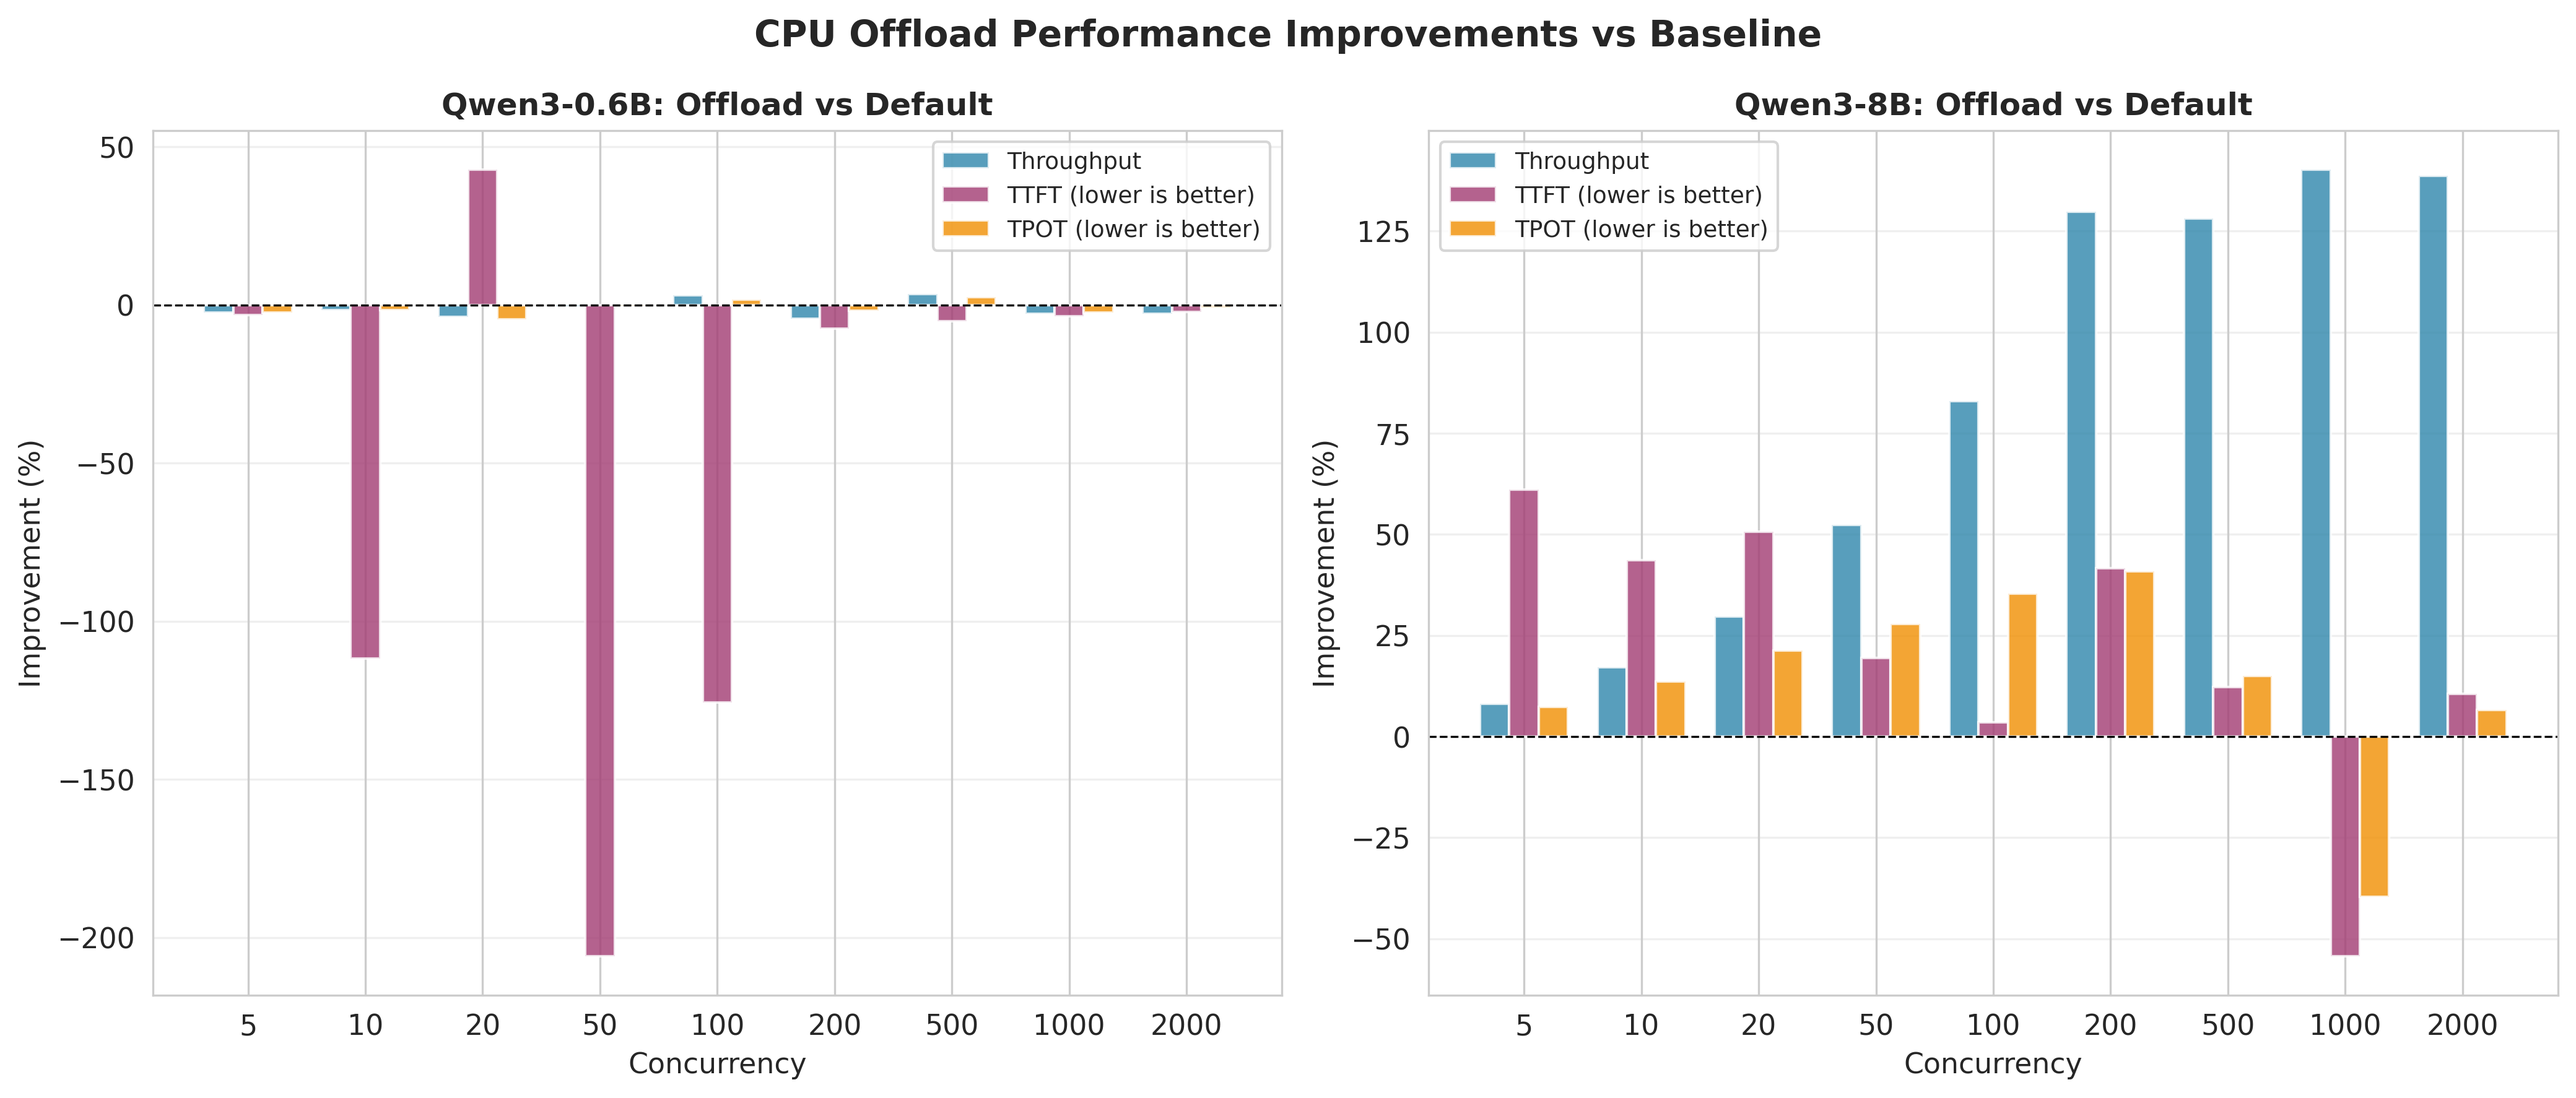
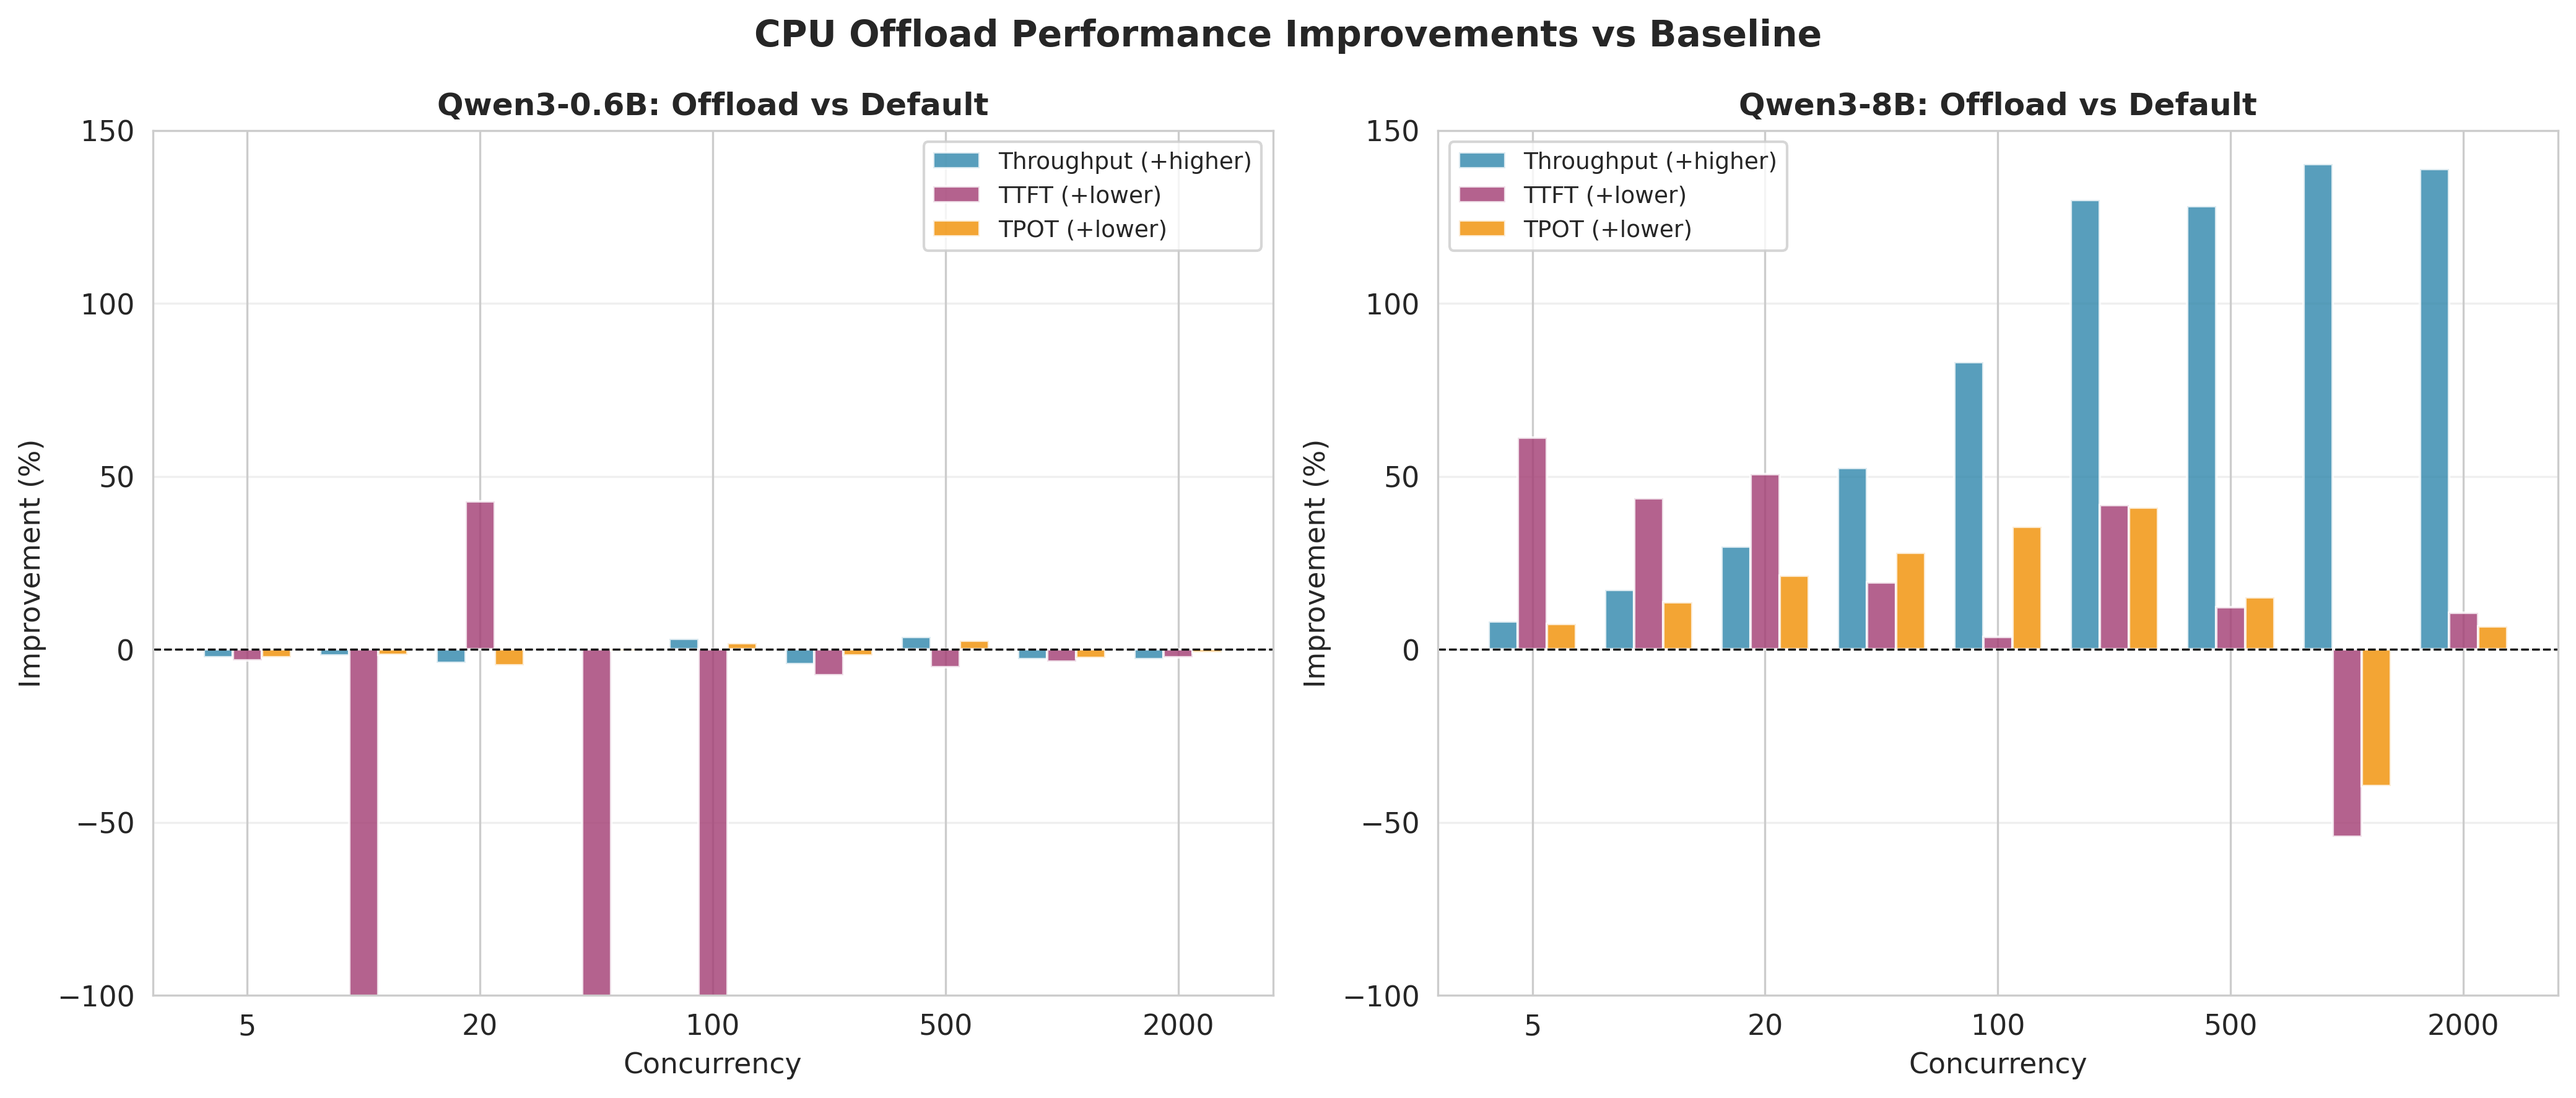
Improve performance improvements graph readability
Reduce x-axis tick density by showing every other concurrency level.
Set y-axis limits to -100% to 150% to prevent extreme negative values
from making the graph illegible. Clarify legend labels to show that
positive values mean improvement for all metrics.

diff --git a/vllm-kvcache-cpu-offload-eval/create_visualizations.py b/vllm-kvcache-cpu-offload-eval/create_visualizations.py
@@ -140,26 +140,32 @@ for idx, model in enumerate(models):
     # Calculate improvements (positive = better)
     merged['throughput_improvement'] = ((merged['tokens_per_second_offload'] - merged['tokens_per_second_baseline']) /
                                         merged['tokens_per_second_baseline'] * 100)
+    # For latency metrics, reduction is improvement, so flip the sign
     merged['ttft_improvement'] = -((merged['ttft_ms_offload'] - merged['ttft_ms_baseline']) /
-                                   merged['ttft_ms_baseline'] * 100)  # negative = improvement
+                                   merged['ttft_ms_baseline'] * 100)
     merged['tpot_improvement'] = -((merged['tpot_ms_offload'] - merged['tpot_ms_baseline']) /
-                                   merged['tpot_ms_baseline'] * 100)  # negative = improvement
+                                   merged['tpot_ms_baseline'] * 100)
 
     x = np.arange(len(merged))
     width = 0.25
 
-    ax.bar(x - width, merged['throughput_improvement'], width, label='Throughput', color='#2E86AB', alpha=0.8)
-    ax.bar(x, merged['ttft_improvement'], width, label='TTFT (lower is better)', color='#A23B72', alpha=0.8)
-    ax.bar(x + width, merged['tpot_improvement'], width, label='TPOT (lower is better)', color='#F18F01', alpha=0.8)
+    ax.bar(x - width, merged['throughput_improvement'], width, label='Throughput (+higher)', color='#2E86AB', alpha=0.8)
+    ax.bar(x, merged['ttft_improvement'], width, label='TTFT (+lower)', color='#A23B72', alpha=0.8)
+    ax.bar(x + width, merged['tpot_improvement'], width, label='TPOT (+lower)', color='#F18F01', alpha=0.8)
 
     ax.axhline(y=0, color='black', linestyle='--', linewidth=0.8)
     ax.set_xlabel('Concurrency', fontsize=11)
     ax.set_ylabel('Improvement (%)', fontsize=11)
     ax.set_title(f'{model}: Offload vs Default', fontsize=12, fontweight='bold')
-    ax.set_xticks(x)
-    ax.set_xticklabels([str(int(c)) if pd.notna(c) else '' for c in merged['concurrency']])
-    ax.legend(fontsize=9)
+    # Show fewer x-tick labels for readability
+    tick_positions = [i for i in range(len(merged)) if i % 2 == 0 or i == len(merged)-1]
+    ax.set_xticks([x[i] for i in tick_positions])
+    ax.set_xticklabels([str(int(merged['concurrency'].iloc[i])) if pd.notna(merged['concurrency'].iloc[i]) else ''
+                        for i in tick_positions], rotation=0)
+    ax.legend(fontsize=9, loc='best')
     ax.grid(True, alpha=0.3, axis='y')
+    # Set reasonable y-axis limits for readability
+    ax.set_ylim(-100, 150)
 
 plt.tight_layout()
 plt.savefig('performance_improvements.png', dpi=300, bbox_inches='tight')
